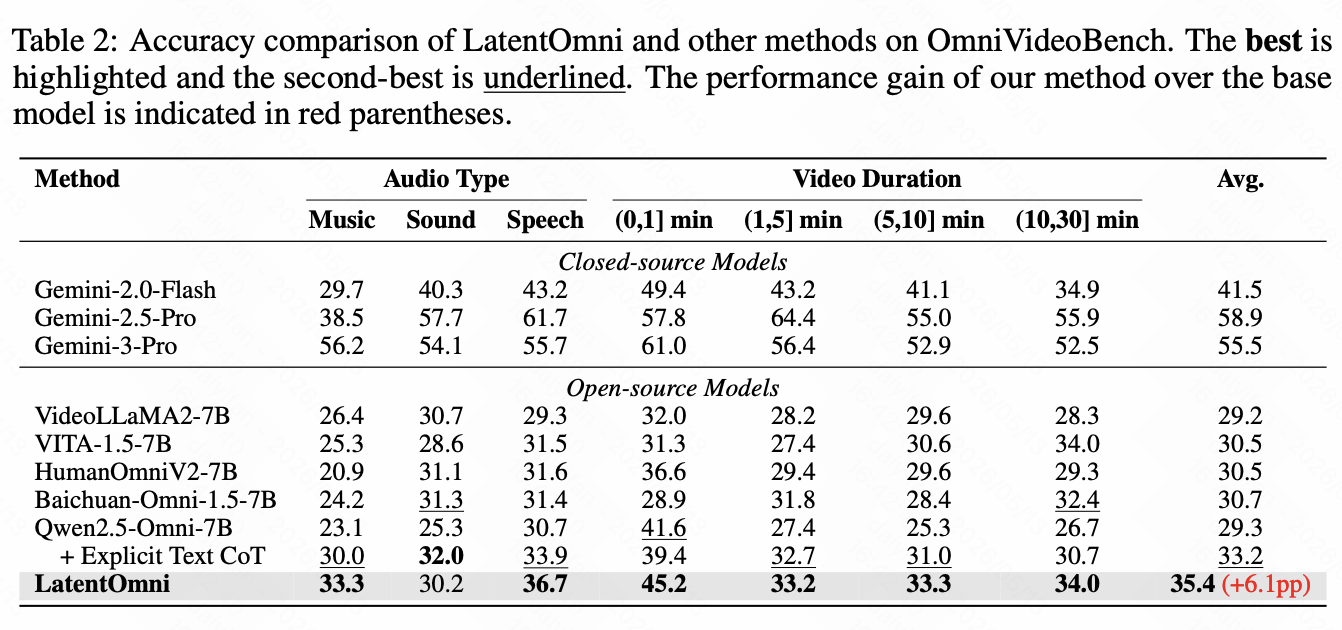
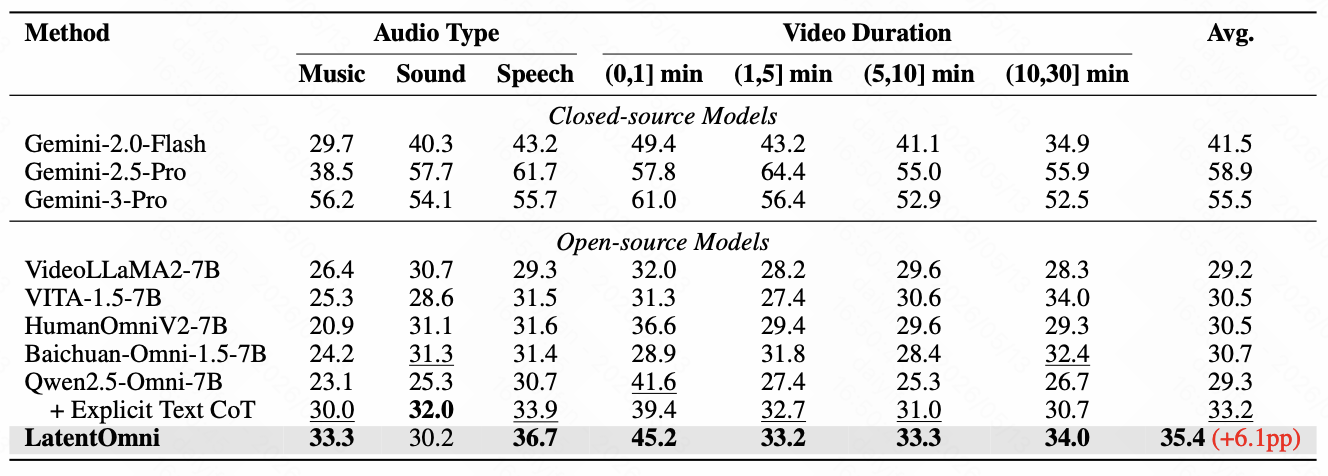
fix

Changed region(s): [[0.0, 0.0, 1.0, 0.9706]]

diff --git a/README.md b/README.md
@@ -77,6 +77,13 @@ Code, checkpoints, evaluation scripts, and dataset download instructions are com
 
 ### 3⃣ Performance comparison with other Latent Reasoning Methods on VideoMME (w/o audio)
 
+<p align="center">
+  <img src="assets/Table3.png" width="100%" alt="LatentOmni reasoning visualization" />
+</p>
+<p align="center">
+  <i>Performance comparison with recent visual latent reasoning methods on the VideoMME benchmark (without audio inputs). The <b>best</b> is highlighted.</i>
+</p>
+
 ## 🔭 Visualizations
 
 <details open>
